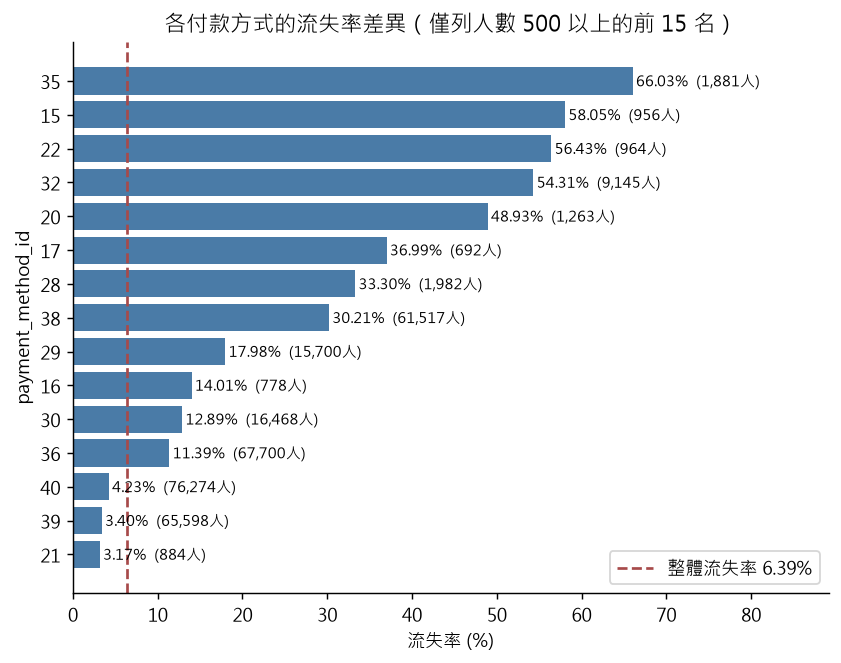
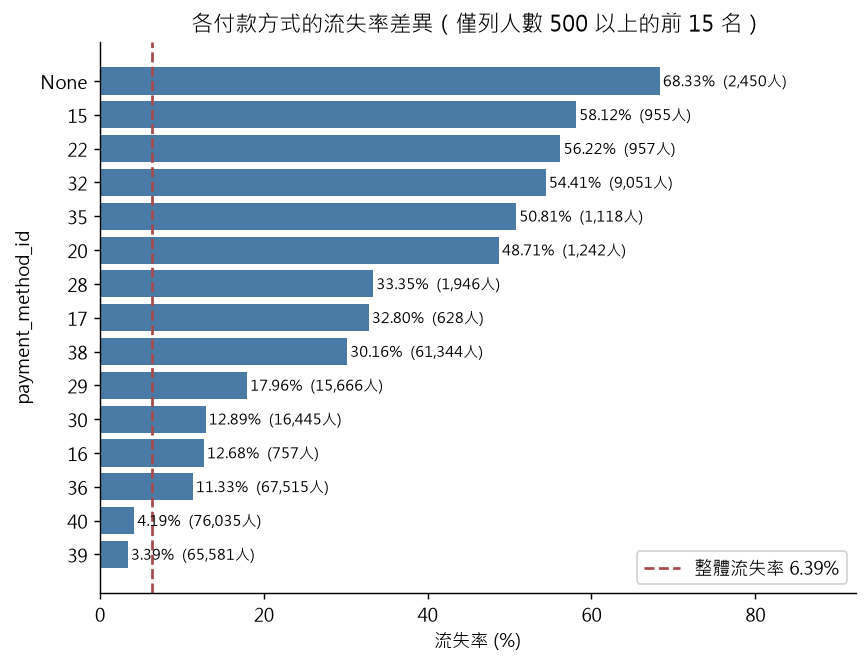
fix(eda): repair the crashing heatmap, then correct every figure and number it had frozen
The EDA figures had been stale since the 2026-08-10 same-day-transaction fix,
and the reason was not neglect: the script was dying halfway through. The 2x2
heatmap indexed its grid with the flag values themselves, and that fix made the
flags nullable, so every run since then ended in

    TypeError: list indices must be integers or slices, not NoneType

Everything downstream of that line -- figures 04 through 07 -- had not been
regenerated once. Rebuild the grid from an explicit AXIS = [0, 1, None] so the
null category gets its own cell and a further value would not crash it either.

The null cells turn out to carry signal rather than noise. Of the 9,179 people
whose last-day transactions conflict, the 1,585 ambiguous on both flags churn at
85.11% -- indistinguishable from confirmed cancellers -- while the 7,594
ambiguous on the cancel flag alone churn at 5.14%. The bucket is a clean mix of
two populations, which is exactly why picking one row arbitrarily used to move
the score.

Corrected M0 numbers (Feb cohort, 992,912 users):

    A last is cancel   28,950 / 75.07%  ->  24,303 / 85.70%
    B auto-renew off  111,722 / 32.59%  -> 110,821 / 32.25%
    C rest            852,259 /  0.63%  -> 857,788 /  0.80%
    A+B coverage    14.2% of users, 91.6% of churn -> 13.6% / 89.1%
    churners hidden in C          5,331 -> 6,892
    30-day plan share            97.20% -> 97.10% (7-day: 72.70% -> 66.60%)
[…]

diff --git a/src/serving/static/index.html b/src/serving/static/index.html
@@ -122,6 +122,7 @@
       <output id="gap-o"></output>
     </div>
     <p class="note">拉動任何一項會立刻重新呼叫 <code>POST /predict</code>。收聽時數與播放數會依活躍天數等比縮放，維持與其他窗口的一致性。</p>
+    <p class="note warn" id="unseen-combo" hidden>⚠ <b>這個組合在訓練資料裡一筆都沒有。</b>沒開自動續訂的人不需要取消 —— 時間到就自然結束，所以「已取消 × 自動續訂關」在 99.2 萬人裡是空的。模型仍然會回一個看起來很合理的機率，但那是<b>外推</b>，不是它學過的東西。這正是兩個獨立開關會做到、而真實資料做不到的事。</p>
   </div>
 
   <div class="card" id="result">
@@ -234,6 +235,10 @@ function apply(){
   const f = body.features;
   f.last_is_auto_renew = getTog('#autorenew');
   f.last_is_cancel = getTog('#cancel');
+
+  // 兩個開關獨立，所以使用者切得出一個資料裡不存在的組合。與其擋住它
+  // （擋住等於假裝模型不會被這樣呼叫），不如在它發生的當下講清楚。
+  $('#unseen-combo').hidden = !(f.last_is_cancel === 1 && f.last_is_auto_renew === 0);
 
   const gap = +$('#gap').value;
   $('#gap-o').textContent = gap + ' 天';

diff --git a/src/serving/examples.py b/src/serving/examples.py
@@ -17,9 +17,9 @@
 
 每個原型的數值是**依 README 已公開的統計分佈手造**的：
 
-    最後一筆已取消     流失率 75.07%   佔用戶 2.9%
-    自動續訂關閉       流失率 32.59%   佔用戶 11.3%
-    其餘               流失率  0.63%   佔用戶 85.8%
+    最後一筆已取消     流失率 85.70%   佔用戶 2.4%
+    自動續訂關閉       流失率 32.25%   佔用戶 11.2%
+    其餘               流失率  0.80%   佔用戶 86.4%
     首次到期的新客     流失率 39.84%   佔 Mar cohort 9.19%
     完全沒有收聽紀錄   訓練資料裡 18.0% 的用戶
 
@@ -102,7 +102,18 @@ _CANCELLED = {
         "n_cancel_hist": 2,
         "mean_paid": 149.0,
         "last_is_cancel": 1,
-        "last_is_auto_renew": 0,
+        # ⚠ 自動續訂必須是 1，不是 0。
+        #
+        # 這兩欄不是獨立的：**沒開自動續訂的人根本不需要取消**，時間到就自然
+        # 結束。實測 Feb cohort 99.2 萬人，`已取消 × 自動續訂關` 這個組合
+        # **一筆都不存在**（見 reports/figures/03_cancel_x_autorenew_heatmap.png）。
+        #
+        # 這裡原本寫 0，於是這個「最高風險」的範例是一個訓練資料裡零支撐的
+        # 組合 —— 模型照樣回一個看起來很合理的 0.8253，沒有任何地方會報錯。
+        # 改成 1（24,303 人、流失率 85.70% 的真實分群）之後是 0.9652，而且
+        # 取消那句原因碼的強度從 +2.39 升到 +4.11：模型真正學過的是「主動
+        # 取消一個原本會自動扣款的訂閱」，不是這個拼出來的組合。
+        "last_is_auto_renew": 1,
         "last_actual_amount_paid": 0.0,
         "last_plan_list_price": 149.0,
         "last_payment_plan_days": 30,
@@ -270,11 +281,15 @@ OPENAPI_EXAMPLES: dict[str, dict[str, Any]] = {
     "cancelled": {
         "summary": "① 高風險：已經按過取消",
         "description": (
-            "**這類人只佔全部用戶的 2.9%，但每 4 個就有 3 個會離開** —— "
+            "**這類人只佔全部用戶的 2.4%，但每 7 個就有 6 個會離開** —— "
             "而且他們一群人就佔了全部流失量的三分之一。\n\n"
-            "三個壞消息同時出現：按過取消、自動續訂關著、最近一週完全沒聽歌"
+            "兩個壞消息同時出現：主動按過取消、最近一週完全沒聽歌"
             "（雖然三個月前還很活躍）。五個範例裡機率最高的一個。\n\n"
-            "⚠ 但這裡有個陷阱：取消這個動作常常就發生在到期當天。"
+            "⚠ 注意他的自動續訂是**開著**的，這不是筆誤：沒開自動續訂的人"
+            "根本不需要取消，時間到就自然結束。所以「已取消 × 自動續訂關」"
+            "這個組合在 99.2 萬人裡一筆都不存在 —— 取消之所以是最強的訊號，"
+            "正因為它是唯一需要用戶**主動做一件事**的狀態。\n\n"
+            "⚠ 另一個陷阱：取消這個動作常常就發生在到期當天。"
             "而真正能上線的模型必須**提前七天**判斷 —— 那時候還看不到這個訊號。"
             "提前七天的代價是準確度掉約 18%，這個數字專案裡有量。"
         ),
@@ -283,8 +298,8 @@ OPENAPI_EXAMPLES: dict[str, dict[str, Any]] = {
     "autorenew_off": {
         "summary": "② 中風險：還沒退訂，但已經不用了",
         "description": (
-            "**這類人佔全部用戶的 11.3%，大約每 3 個有 1 個會離開。**"
-            "因為人數多，他們佔了全部流失量的 57% —— 比 ① 那群還多。\n\n"
+            "**這類人佔全部用戶的 11.2%，大約每 3 個有 1 個會離開。**"
+            "因為人數多，他們佔了全部流失量的 56% —— 比 ① 那群還多。\n\n"
             "帳面上一切正常，沒按過取消。但自動續訂關著，而且最近一週只打開過一天，"
             "「整首聽完」的比例掉到剩三分之一。\n\n"
             "跟 ① 對照就看得出來：**光看一個開關不夠**，模型讀的是一整組行為。"

diff --git a/notebooks/eda_01_overview.py b/notebooks/eda_01_overview.py
@@ -218,25 +218,42 @@ for col, label in [
     print(f"\n{label}")
     print(g)
 
-# 2x2 熱圖：兩個旗標交叉之後的流失率。
-# 用 nan 而不是 None 當預設值 —— matplotlib 的 imshow 不吃 object dtype，
-# 但認得 nan 並且會留白。實測 (已取消, 自動續訂關) 這格是空的：沒開自動
-# 續訂就沒東西可取消，直接讓它到期就好。
-grid = [[float("nan")] * 2 for _ in range(2)]
-counts = [[0, 0], [0, 0]]
+# 熱圖：兩個旗標交叉之後的流失率。
+#
+# ⚠ **每個旗標有三個取值，不是兩個。** 同一天有多筆交易而該欄位彼此衝突時，
+# `_last_unambiguous()` 給 null（見 src/data/cohort.py）——「不知道」是那裡唯一
+# 誠實的值。所以 null 必須在圖上有自己的一格，不能靜靜丟掉：實測 9,179 人的
+# `last_is_cancel` 是 null，而他們的流失率 18.95% 恰好落在已取消（85.70%）與
+# 未取消（4.26%）之間，正是「這格真的混著兩種人」的樣子。
+#
+# 這一段原本寫死成 2x2，會在 r["last_is_cancel"] 是 None 時以
+# `TypeError: list indices must be integers` 掛掉 —— 也就是說 §7.11 的同日交易
+# 修正之後，這張圖就再也沒有重畫成功過。改成由 AXIS 決定維度，之後再多一個
+# 取值也不會炸。
+#
+# 空格用 nan 而不是 None —— matplotlib 的 imshow 不吃 object dtype，但認得 nan
+# 並且會留白。而空格本身就是發現：沒開自動續訂就沒東西可取消，所以
+# (已取消, 自動續訂關) 一筆都不存在。
+AXIS = [0, 1, None]
+CANCEL_LABEL = {0: "未取消", 1: "已取消", None: "同日衝突\n（不確定）"}
+RENEW_LABEL = {0: "自動續訂 關", 1: "自動續訂 開", None: "同日衝突\n（不確定）"}
+
+grid = [[float("nan")] * len(AXIS) for _ in AXIS]
+counts = [[0] * len(AXIS) for _ in AXIS]
 for r in cross.iter_rows(named=True):
-    i, j = r["last_is_cancel"], r["last_is_auto_renew"]
+    i = AXIS.index(r["last_is_cancel"])
+    j = AXIS.index(r["last_is_auto_renew"])
     grid[i][j] = r["流失率"] * 100
     counts[i][j] = r["人數"]
 
-fig, ax = plt.subplots(figsize=(6.2, 4.6))
+fig, ax = plt.subplots(figsize=(7.6, 5.4))
 im = ax.imshow(grid, cmap="Reds", vmin=0, vmax=100)
-ax.set_xticks([0, 1], ["自動續訂 關", "自動續訂 開"])
-ax.set_yticks([0, 1], ["未取消", "已取消"])
-for i in range(2):
-    for j in range(2):
+ax.set_xticks(range(len(AXIS)), [RENEW_LABEL[a] for a in AXIS])
+ax.set_yticks(range(len(AXIS)), [CANCEL_LABEL[a] for a in AXIS])
+for i in range(len(AXIS)):
+    for j in range(len(AXIS)):
         if math.isnan(grid[i][j]):
-            ax.text(j, i, "此組合\n不存在", ha="center", va="center", fontsize=10, color="#888888")
+            ax.text(j, i, "此組合\n不存在", ha="center", va="center", fontsize=9, color="#999999")
             continue
         ax.text(
             j,
@@ -244,7 +261,7 @@ for i in range(2):
             f"{grid[i][j]:.2f}%\n{counts[i][j]:,} 人",
             ha="center",
             va="center",
-            fontsize=12,
+            fontsize=11,
             color="white" if grid[i][j] > 50 else "black",
         )
 ax.set_title("流失率：最後一筆交易的兩個旗標交叉")

diff --git a/src/features/build.py b/src/features/build.py
@@ -254,7 +254,7 @@ def build_features(df: pl.DataFrame, logs: pl.DataFrame | None = None) -> Featur
         (pl.col("n_cancel_hist") / pl.col("n_tx")).alias("cancel_rate"),
         pl.col("mean_paid"),
         # --- cutoff 之前最後一筆交易 ---
-        # last_is_cancel 是實測最強的旗標（流失率 75.07% vs 4.33%），但它
+        # last_is_cancel 是實測最強的旗標（流失率 85.70% vs 4.26%），但它
         # 幾乎等於標籤：取消常發生在到期日當天，而 cutoff 就是到期日。
         # M6 的 cutoff = 到期日 − 7 天 版本會失去這個訊號，屆時分數必然下降。
         pl.col("last_is_cancel").cast(pl.Float64),

diff --git a/SPEC.md b/SPEC.md
@@ -1985,7 +1985,7 @@ Top-1 分布：
 | 位移 | 訊號還在，但量的是 7 天前的狀態 | 收聽窗口整體前移；`last_*` 可能改指另一筆交易 |
 | 快照 | 值與 cutoff 幾乎無關 | `members_v3` 的城市／性別／年齡等 |
 
-`last_is_cancel` 是實測最強的旗標（流失率 75.07% vs 4.33%，見
+`last_is_cancel` 是實測最強的旗標（流失率 85.70% vs 4.26%，見
 `src/features/build.py`），也因此是 T−7 版本損失最大的一個。實測這份名單：
 
 | | 營運呈現的句子 | 全部候選（稽核） |
